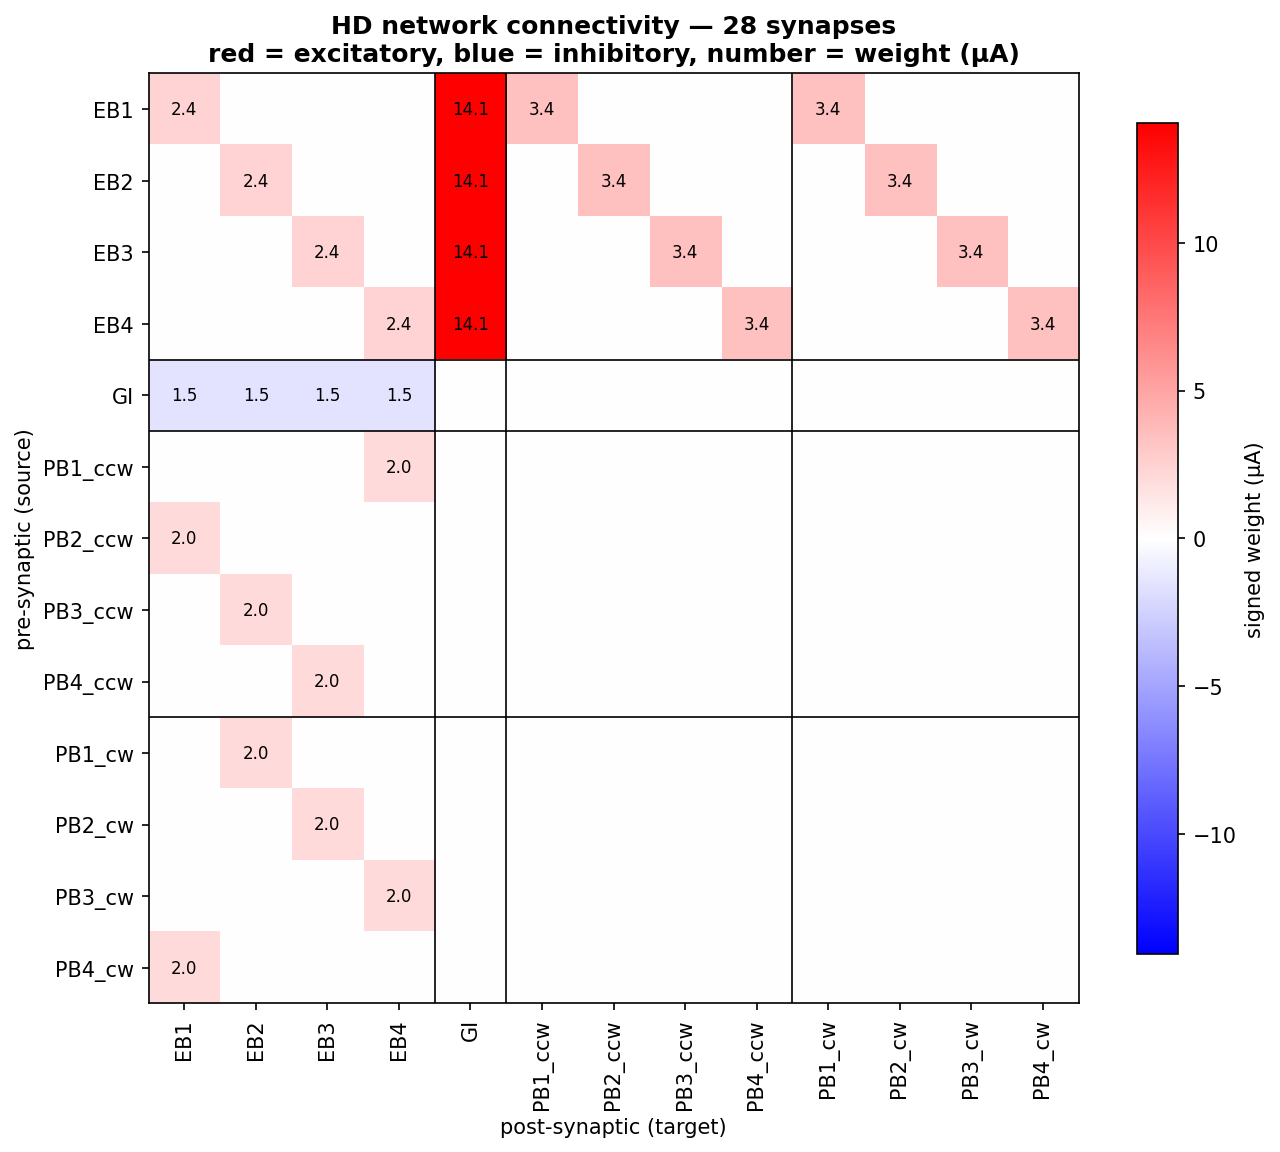
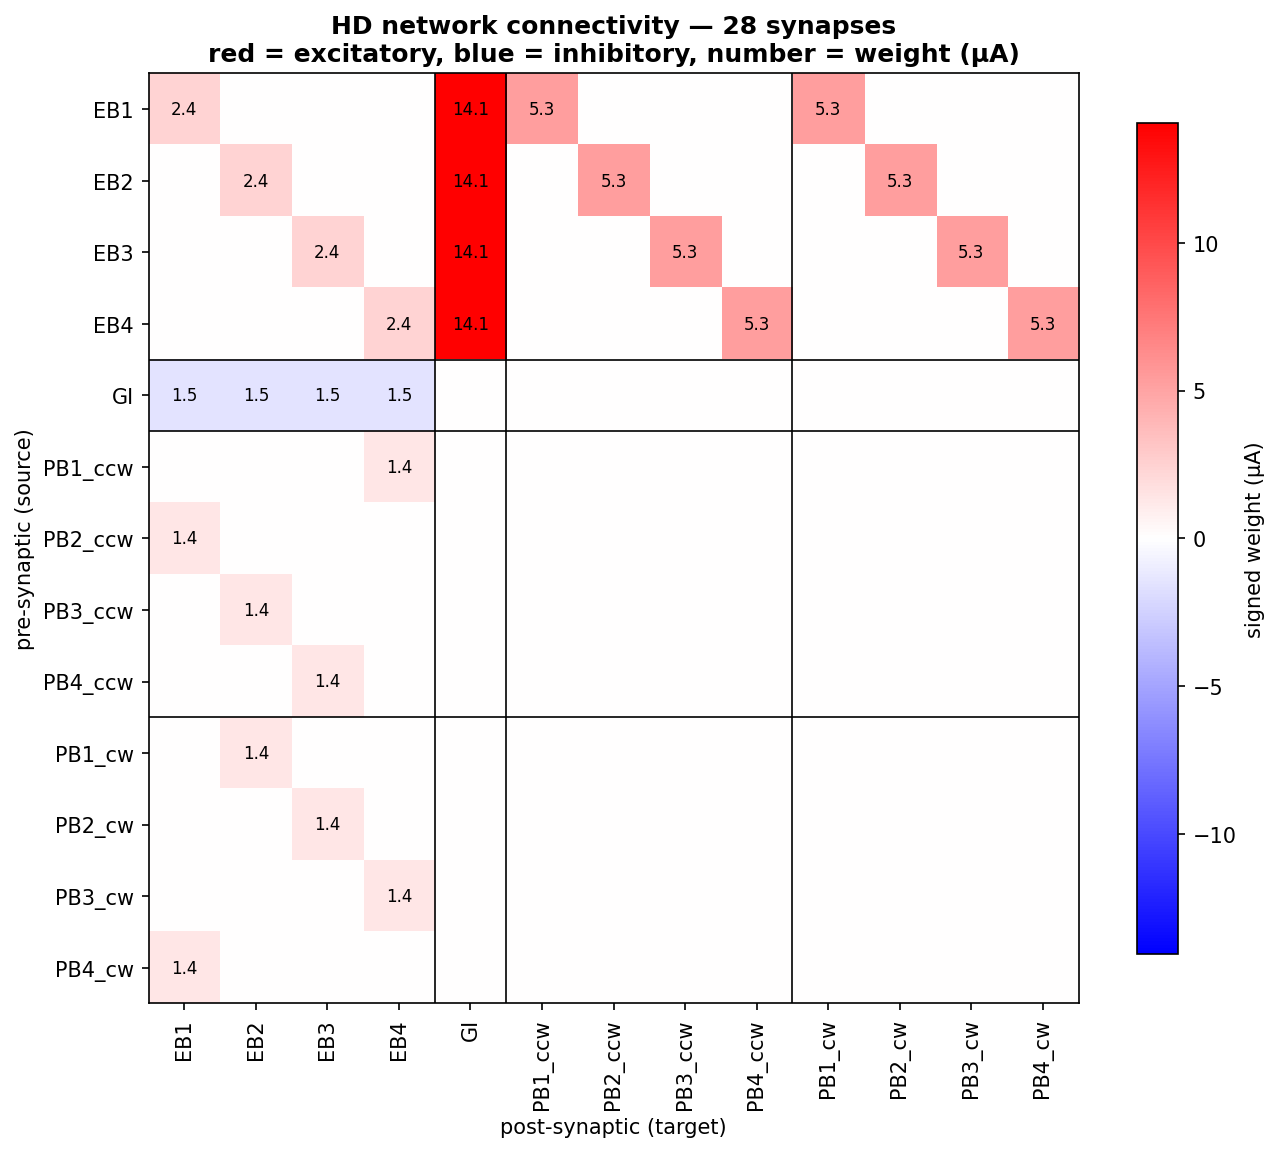
Update:add the turning for CCW and CW.

Changed region(s): [[0.5938, 0.0625, 0.8438, 0.3125], [0.375, 0.0625, 0.5625, 0.25], [0.5625, 0.25, 0.625, 0.3125]]

diff --git a/demo/ns_hd_4n.py b/demo/ns_hd_4n.py
@@ -65,7 +65,7 @@ I_MIN, I_MAX = p.operating_window()
 # ── Tonic bias (all subthreshold) ───────────────────────────────────────────
 I0_EB = 24.1e-6                 # 75% of I_min
 I0_GI = 6.1e-6                  # 19% of I_min — GI is driven by the EBs
-I0_PB = 5.0e-6                  # 16% of I_min — low, to leave room for the velocity input
+I0_PB = 2.0e-6                  #  6% of I_min — low: the EB copy and the velocity pulse do the work
 
 # ── Synaptic weights (A) and time constants (s) ─────────────────────────────
 # Tuned against Fig2.1 / Fig2.2 under the constraint that the winner and GI
@@ -74,8 +74,8 @@ I0_PB = 5.0e-6                  # 16% of I_min — low, to leave room for the ve
 W_SELF, TAU_SELF = 2.394e-6, 150e-3    # EB → EB   self-excitation
 W_EBGI, TAU_EBGI = 14.06e-6, 30e-3     # EB → GI
 W_GIEB, TAU_GIEB = 1.503e-6, 100e-3    # GI → EB   global inhibition
-W_COPY, TAU_COPY = 3.43e-6, 100e-3     # EB → PB   position copy (PB follows EB, ~τ later)
-W_SHIFT, TAU_SHIFT = 2.0e-6, 100e-3    # PB → EB   shifted return (too weak to move the bump without velocity input)
+W_COPY, TAU_COPY = 5.34e-6, 100e-3     # EB → PB   position copy (PB follows EB, ~τ later)
+W_SHIFT, TAU_SHIFT = 1.4e-6, 100e-3    # PB → EB   shifted return (moves the bump only with velocity input)
 
 
 # ╔══════════════════════════════════════════════════════════════════════════╗
@@ -420,14 +420,17 @@ def stage_bump():
 # ║ Stage 3 — WTA between every pair of EB neurons                           ║
 # ╚══════════════════════════════════════════════════════════════════════════╝
 
-# Fig2.1c protocol: 35 µA × 0.5 s pulse every 2.5 s.  The target sequence is an
+# Fig2.1c protocol: 0.5 s pulse every 2.5 s.  The pulse is 30 µA rather than
+# the figure's 35 µA: with the PBs copying the EBs, the pulsed EB also receives
+# PB shift current, and at 35 µA the summed EB → GI drive pushes GI past I_hold.
+# The target sequence is an
 # Euler circuit of the complete directed graph on 4 nodes, so every ordered
 # pair (EBa → EBb) is switched exactly once (12 transitions).
 WTA_SEQ    = [1, 2, 3, 4, 1, 3, 2, 4, 3, 1, 4, 2, 1]       # 1-based EB labels
 WTA_T0     = 0.5        # s, first pulse
 WTA_PERIOD = 2.5        # s
 WTA_DUR    = 0.5        # s
-WTA_I      = 35e-6      # A
+WTA_I      = 30e-6      # A
 
 # Figure targets (µA, Hz) read off Fig2.1c / Fig2.2b
 TARGETS = {
@@ -674,7 +677,7 @@ TURN_SEED   = (0.5, 0.5, 0, 35e-6)        # t0, dur, EB index, amplitude
 TURN_T0     = 3.0        # s, first velocity pulse
 TURN_PERIOD = 2.5        # s
 TURN_DUR    = 0.5        # s
-TURN_I      = 22e-6      # A — I0_PB + TURN_I stays below I_min without the copy
+TURN_I      = 25e-6      # A — I0_PB + TURN_I stays below I_min without the copy
 TURN_SEQ    = ['cw'] * 4 + ['ccw'] * 4
 
 def stage_turn():

diff --git a/PAUSE.md b/PAUSE.md
@@ -1,0 +1,110 @@
+# PAUSE — head-direction network (branch `HD_Stimu`)
+
+Paused 2026-10-01. Nothing from this work is committed.
+
+## Where things stand
+
+The 4-direction head-direction ring of `Fig3.1_4Nturn_color.png` is built and working in
+`demo/ns_hd_4n.py`: 4 EB + 1 GI + 4 PB_ccw + 4 PB_cw, 28 synapses.
+
+| Stage | Command | Status |
+|---|---|---|
+| Connection check | `--stage connections` | done, wiring confirmed by you |
+| EB bump | `--stage bump` | done, no firing gap after the pulse |
+| WTA, all 12 ordered EB pairs | `--stage wta` | done, 13/13 pulses correct |
+| EB → PB copy | shown in `--stage wta` | done, PBk fires only with EBk |
+| Turning by PB velocity input | `--stage turn` | done, 8/8 one-step moves (4 CW + 4 CCW) |
+
+Run with `uv run python demo/ns_hd_4n.py --stage <name>`. WTA takes about 4 minutes, turn about 3.
+
+## Current parameters
+
+Neuron: `MSNParams()` defaults except **Cm = 133 nF** (100 nF ∥ 33 nF). I_min = 32.2 µA, I_hold = 100 µA.
+
+| Bias | Value |
+|---|---|
+| I_0 EB | 24.1 µA |
+| I_0 GI | 6.1 µA |
+| I_0 PB | 2.0 µA |
+
+| Pathway | Type | Weight | τ |
+|---|---|---|---|
+| EBk → EBk (self) | exc | 2.394 µA | 150 ms |
+| EBk → GI | exc | 14.06 µA | 30 ms |
+| GI → EBk | inh | 1.503 µA | 100 ms |
+| EBk → PBk_ccw / PBk_cw (copy) | exc | 5.34 µA | 100 ms |
+| PBk_ccw → EB(k−1), PBk_cw → EB(k+1) (shift) | exc | 1.4 µA | 100 ms |
+
+| Input | Value |
+|---|---|
+| WTA test pulse on one EB | 30 µA × 0.5 s, every 2.5 s |
+| Velocity pulse on all PB_cw or all PB_ccw | 25 µA × 0.5 s, every 2.5 s |
+| Bump seed (turn stage) | 35 µA × 0.5 s on EB1 |
+
+## Latest results
+
+**WTA (30 µA pulses)**
+
+| Quantity | Fig2.1 / Fig2.2 | Simulation |
+|---|---|---|
+| Winner rate, steady / peak | 85 / 185 Hz | 86 / 182 Hz |
+| GI rate, steady / peak | 100 / 185 Hz | 85 / 207 Hz |
+| Self-excitation, steady / peak | 35 / 55 µA | 32.0 / 50.6 µA |
+| EB → GI, steady / peak | 45 / 75 µA | 36.5 / 77.9 µA |
+| GI → EB, steady / peak | 20 / 27 µA | 13.3 / 28.7 µA |
+| Transition time | 500 ms | about 180 ms |
+| Longest silence after a pulse | none | 15.5 ms winner, 16 ms GI |
+| PB copy rate | — | 102–115 Hz, starts 140–210 ms after EBk |
+
+**Turning (25 µA velocity pulses)**
+
+| Quantity | Value |
+|---|---|
+| Correct one-step moves | 8 of 8 |
+| Copying PB, before / during pulse | 99 Hz / 176–180 Hz |
+| Shift current onto next EB, before / peak | 13.7 / 24.3 µA |
+| New EB starts / old EB stops after pulse onset | about 180 ms / 425–457 ms |
+| Non-copying PBs during pulse | silent (27 µA total, below 32.2 µA) |
+
+## Decisions you made (keep these)
+
+- Winner EB and GI must never stop firing when a pulse is removed.
+- τ is the same within a pathway and different between pathways.
+- I_0 may be high, even near or above I_min; PBs use a low I_0 with strong EB copy.
+- Cm raised to 133 nF to bring f_max near 185 Hz. Lowering I_hold was tried and dropped.
+- Velocity pulses go to the PB neurons, not to the EBs. Only the initial seed is an EB pulse.
+- Copying PB should fire around 100 Hz, and 180–200 Hz during the velocity pulse.
+
+## Open points
+
+1. **WTA pulse band is narrow.** 28 and 31 µA work, 25 µA leaves a ~130 ms GI pause on
+   opposite-side switches, 35 µA (the Fig2.1 value) fails because GI is pushed past I_hold.
+2. **Velocity pulse target.** I send it to the whole PB_cw or PB_ccw population. Not yet
+   confirmed by you that this is what you meant, rather than only PBk.
+3. **Pulse length and repetition.** Only 0.5 s pulses every 2.5 s were tested. A longer pulse
+   may move the bump more than one step; a faster repeat is untested.
+4. **PB rate during the pulse** is 176–180 Hz, just under the 180–200 Hz target. The pulse is
+   capped near 30 µA so non-copying PBs stay silent.
+5. **Robustness not swept in Brian2.** Working windows for the PB → EB weight and the velocity
+   amplitude come from a quick rate model only (roughly ±10–20%).
+6. **Still off against the figures:** steady GI → EB and EB → GI currents are low, GI steady
+   rate is 85 Hz, and the WTA transition is about 180 ms instead of 500 ms.
+7. **Git:** `git status` shows six tracked demo files as deleted (`ns_msn_compass_demo`,
+   `ns_msn_if_sweep`, `ns_msn_v1`, each `.py` and `.png`). I did not delete them.
+   `git checkout -- demo/` restores them if that was not intended.
+
+## Suggested next steps
+
+- Confirm point 2, then test pulse duration and back-to-back pulses (point 3).
+- Sweep the PB → EB weight and velocity amplitude in Brian2 to get real margins (point 5).
+- Decide whether the 35 µA WTA pulse must work with PBs active (point 1).
+- Commit `demo/ns_hd_4n.py` and the five figures once you are happy.
+
+## Files
+
+- `demo/ns_hd_4n.py` — network, all four stages
+- `demo/ns_hd_4n_connections.png` — connectivity matrix
+- `demo/ns_hd_4n_bump.png` — bump test
+- `demo/ns_hd_4n_wta.png`, `demo/ns_hd_4n_wta_rates.png` — WTA overview and per-switch rates
+- `demo/ns_hd_4n_turn.png` — turning test
+- Reference figures: `Fig3.1_4Nturn_color.png`, `Fig2.1.png`, `Fig2.2.png`
